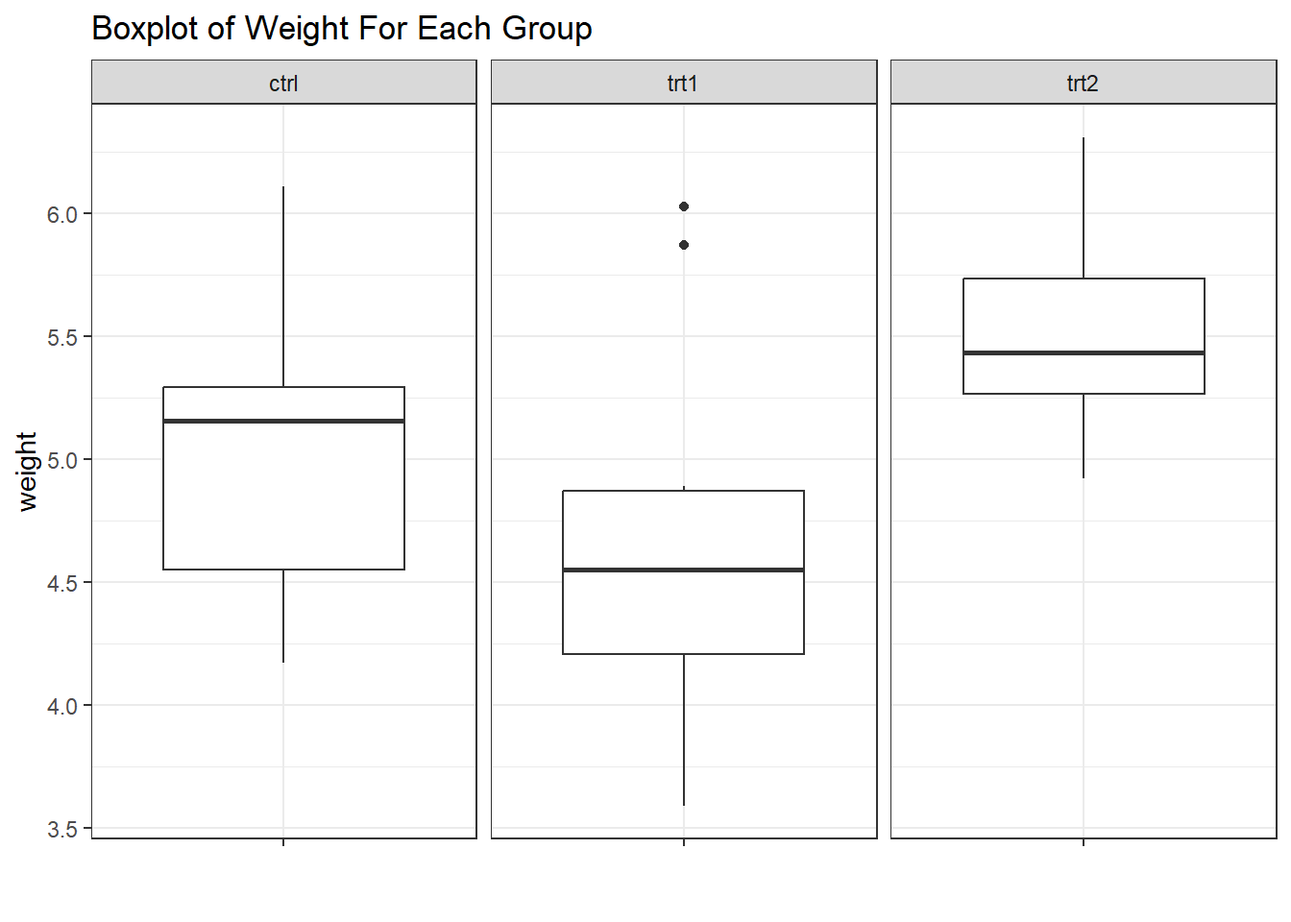
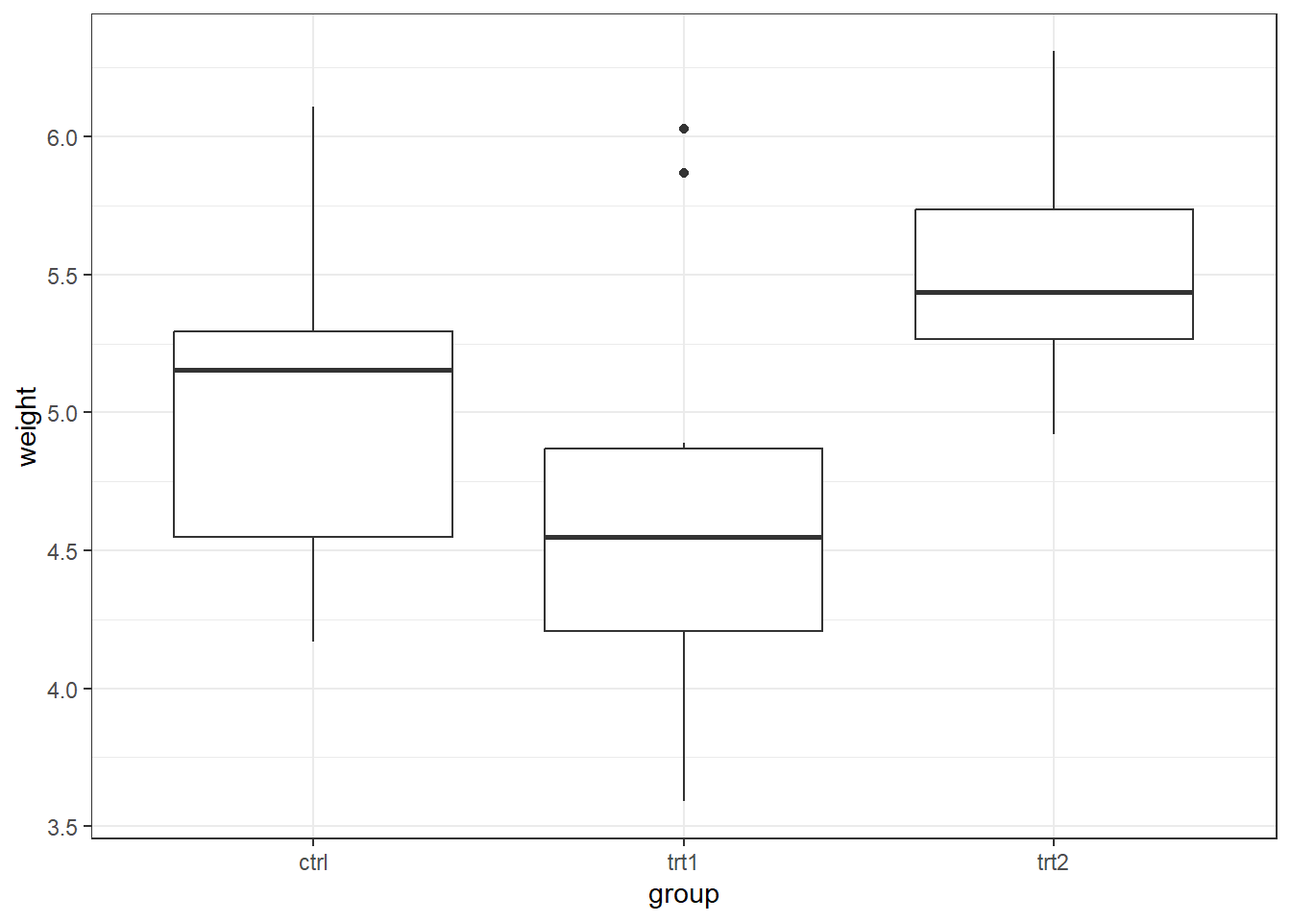
Substantial progress in Inferential Statistics.

diff --git a/docs/inferential_stats.html b/docs/inferential_stats.html
@@ -23,7 +23,7 @@
 <meta name="author" content="Michael Dear" />
 
 
-<meta name="date" content="2026-03-22" />
+<meta name="date" content="2026-03-23" />
 
   <meta name="viewport" content="width=device-width, initial-scale=1" />
   <meta name="apple-mobile-web-app-capable" content="yes" />
@@ -140,6 +140,7 @@
 <ul>
 <li class="chapter" data-level="4.1" data-path="inferential_stats.html"><a href="inferential_stats.html#estimation"><i class="fa fa-check"></i><b>4.1</b> Estimation</a></li>
 <li class="chapter" data-level="4.2" data-path="inferential_stats.html"><a href="inferential_stats.html#hypothesis-testing"><i class="fa fa-check"></i><b>4.2</b> Hypothesis Testing</a></li>
+<li class="chapter" data-level="4.3" data-path="inferential_stats.html"><a href="inferential_stats.html#further-reading"><i class="fa fa-check"></i><b>4.3</b> Further Reading</a></li>
 </ul></li>
 <li class="chapter" data-level="5" data-path="stat_tests.html"><a href="stat_tests.html"><i class="fa fa-check"></i><b>5</b> Statistical Tests</a>
 <ul>
@@ -150,9 +151,9 @@
 </ul></li>
 <li class="chapter" data-level="5.3" data-path="stat_tests.html"><a href="stat_tests.html#p-values-and-statistical-significance"><i class="fa fa-check"></i><b>5.3</b> p-values and Statistical Significance</a></li>
 <li class="chapter" data-level="5.4" data-path="stat_tests.html"><a href="stat_tests.html#confidence-intervals"><i class="fa fa-check"></i><b>5.4</b> Confidence Intervals</a></li>
-<li class="chapter" data-level="5.5" data-path="stat_tests.html"><a href="stat_tests.html#further-reading"><i class="fa fa-check"></i><b>5.5</b> Further Reading</a></li>
+<li class="chapter" data-level="5.5" data-path="stat_tests.html"><a href="stat_tests.html#further-reading-1"><i class="fa fa-check"></i><b>5.5</b> Further Reading</a></li>
 </ul></li>
-<li class="part"><span><b>Part 2: Your Project</b></span></li>
+<li class="part"><span><b>Your Project</b></span></li>
 <li class="chapter" data-level="6" data-path="planning-your-project-with-statistics-in-mind.html"><a href="planning-your-project-with-statistics-in-mind.html"><i class="fa fa-check"></i><b>6</b> Planning Your Project With Statistics In Mind</a>
 <ul>
 <li class="chapter" data-level="6.1" data-path="planning-your-project-with-statistics-in-mind.html"><a href="planning-your-project-with-statistics-in-mind.html#starting-at-the-end"><i class="fa fa-check"></i><b>6.1</b> Starting At the End</a></li>
@@ -202,12 +203,56 @@ To create and interpret confidence intervals<br />
 To understand p-values and statistical significance<br />
 To test hypotheses using statistical techniques</p>
 </blockquote>
-<p>We usually want to infer something about the population under study by applying statistical methods to the data collected. These inferences fall into one of two categories: estimation or hypothesis testing.</p>
+<p>By conducting a statistical analysis, we usually want to <em>infer</em> something about the population under study by applying statistical methods to the data collected. These inferences fall into two categories: estimation and hypothesis testing.</p>
 <div id="estimation" class="section level2 hasAnchor" number="4.1">
 <h2><span class="header-section-number">4.1</span> Estimation<a href="inferential_stats.html#estimation" class="anchor-section" aria-label="Anchor link to header"></a></h2>
+<p>Estimation is the process of inferring the value of a population parameter from a sample. This involves deriving point estimates and confidence intervals.</p>
+<p>As an example, imagine that a researcher records the mass in kilograms of 100 Yellowfin Bream (Acanthopagrus australis) caught along the NSW coast. The sample has a mean of 1.3kg and a standard deviation of 0.4kg.</p>
+<blockquote>
+<p><strong>Point Estimate</strong> - A single-valued statistic given as an estimate for a population parameter e.g. the mean of a sample (<span class="math inline">\(\bar{x}\)</span>) is given as the estimate for the population mean (<span class="math inline">\(\mu\)</span>)</p>
+</blockquote>
+<p>The point estimate for the Bream example would be the sample mean (1.3kg).</p>
+<blockquote>
+<p><strong>Confidence Interval (CI)</strong> - There is an n% probability that the parameter of interest is contained within a given confidence interval. Hence, for a 95% CI, there is a probability of 95% that the interval contains the parameter.</p>
+</blockquote>
+<p>A 95% CI for the mean of the Bream example would be <span class="math inline">\(1.3\pm1.96\times\frac{0.4}{\sqrt{100}} = [1.22,1.38]\)</span>, assuming that the sample is from a normally distributed population. There is a 95% probability that this interval covers the true population mean.</p>
+<blockquote>
+<p>The formula for calculating confidence intervals depends on the parameter of interest. Statistical software can calculate automatically the most common confidence intervals for a given data set.</p>
+</blockquote>
 </div>
 <div id="hypothesis-testing" class="section level2 hasAnchor" number="4.2">
 <h2><span class="header-section-number">4.2</span> Hypothesis Testing<a href="inferential_stats.html#hypothesis-testing" class="anchor-section" aria-label="Anchor link to header"></a></h2>
+<p>The boxplot below suggests there is a difference in the mean between the trt1 and trt2 groups, but how can we test this hypotheses in a quantitative way? This is the purpose of statistical tests.</p>
+<p><img src="statistics_for_science_extension_files/figure-html/unnamed-chunk-14-1.png" alt="" width="672" /></p>
+<p>The process for applying a statistical test can be summarised as:</p>
+<ol style="list-style-type: decimal">
+<li>Form a null hypothesis, <span class="math inline">\(H_0\)</span></li>
+<li>Form an alternative hypothesis, <span class="math inline">\(H_a\)</span></li>
+<li>Decide on an acceptable significance level (Type I error rate), <span class="math inline">\(\alpha\)</span>, (usually 5%, or <span class="math inline">\(\alpha = 0.05\)</span>)</li>
+<li>Apply an appropriate statistical test</li>
+<li>Use the p-value returned from the test to decide if the null hypothesis should be rejected</li>
+<li>Report your results</li>
+</ol>
+<p>Continuing with the example above,</p>
+<p><span class="math inline">\(H_0:\)</span> There is no difference in the means of trt1 and trt2.
+<span class="math inline">\(H_a:\)</span> There is a statistically significant difference in the means of trt1 and trt2</p>
+<p>The appropriate test for the difference in means for two independent groups is the <strong>independent t-test</strong>. Applying this test with a <strong>95% confidence level</strong> to the two groups gives <span class="math inline">\(p=0.009298\)</span>.</p>
+<p>The results of the test could be reported as</p>
+<p>“Applying the independent samples t-test gave a p-value below the significance level (<span class="math inline">\(\alpha = 0.05, p = 0.009298\)</span>). Hence, the null hypothesis was rejected.”</p>
+<blockquote>
+<p>Notice that the null hypothesis was rejected. It would be incorrect to state that the alternative hypothesis was accepted because at the stated significance level, there was still a 5% chance that the null hypothesis was correct.</p>
+</blockquote>
+<ul>
+<li>Effects, powers (detecting effects), and sample size</li>
+<li>Null and alternative hypotheses - aim to reject H0; example</li>
+<li>Review Type I/II errors</li>
+</ul>
+</div>
+<div id="further-reading" class="section level2 hasAnchor" number="4.3">
+<h2><span class="header-section-number">4.3</span> Further Reading<a href="inferential_stats.html#further-reading" class="anchor-section" aria-label="Anchor link to header"></a></h2>
+<p><a href="https://online.stat.psu.edu/stat200/lesson/4"><strong>Confidence Intervals, Pennsylvania State University</strong></a></p>
+<p><a href="https://stats.libretexts.org/Bookshelves/Introductory_Statistics/Introductory_Statistics_(Shafer_and_Zhang)/07%3A_Estimation">Estimation, Shafer and Zhang</a></p>
+<p><a href="https://stats.libretexts.org/Bookshelves/Applied_Statistics/Learning_Statistics_with_R_-_A_tutorial_for_Psychology_Students_and_other_Beginners_(Navarro)/10%3A_Estimating_Unknown_Quantities_from_a_Sample/10.05%3A_Estimating_a_Confidence_Interval"><strong>Estimating a Confidence Interval, Navarro, D</strong></a></p>
 
 </div>
 </div>

diff --git a/docs/stat_tests.html b/docs/stat_tests.html
@@ -23,7 +23,7 @@
 <meta name="author" content="Michael Dear" />
 
 
-<meta name="date" content="2026-03-22" />
+<meta name="date" content="2026-03-23" />
 
   <meta name="viewport" content="width=device-width, initial-scale=1" />
   <meta name="apple-mobile-web-app-capable" content="yes" />
@@ -140,6 +140,7 @@
 <ul>
 <li class="chapter" data-level="4.1" data-path="inferential_stats.html"><a href="inferential_stats.html#estimation"><i class="fa fa-check"></i><b>4.1</b> Estimation</a></li>
 <li class="chapter" data-level="4.2" data-path="inferential_stats.html"><a href="inferential_stats.html#hypothesis-testing"><i class="fa fa-check"></i><b>4.2</b> Hypothesis Testing</a></li>
+<li class="chapter" data-level="4.3" data-path="inferential_stats.html"><a href="inferential_stats.html#further-reading"><i class="fa fa-check"></i><b>4.3</b> Further Reading</a></li>
 </ul></li>
 <li class="chapter" data-level="5" data-path="stat_tests.html"><a href="stat_tests.html"><i class="fa fa-check"></i><b>5</b> Statistical Tests</a>
 <ul>
@@ -150,9 +151,9 @@
 </ul></li>
 <li class="chapter" data-level="5.3" data-path="stat_tests.html"><a href="stat_tests.html#p-values-and-statistical-significance"><i class="fa fa-check"></i><b>5.3</b> p-values and Statistical Significance</a></li>
 <li class="chapter" data-level="5.4" data-path="stat_tests.html"><a href="stat_tests.html#confidence-intervals"><i class="fa fa-check"></i><b>5.4</b> Confidence Intervals</a></li>
-<li class="chapter" data-level="5.5" data-path="stat_tests.html"><a href="stat_tests.html#further-reading"><i class="fa fa-check"></i><b>5.5</b> Further Reading</a></li>
+<li class="chapter" data-level="5.5" data-path="stat_tests.html"><a href="stat_tests.html#further-reading-1"><i class="fa fa-check"></i><b>5.5</b> Further Reading</a></li>
 </ul></li>
-<li class="part"><span><b>Part 2: Your Project</b></span></li>
+<li class="part"><span><b>Your Project</b></span></li>
 <li class="chapter" data-level="6" data-path="planning-your-project-with-statistics-in-mind.html"><a href="planning-your-project-with-statistics-in-mind.html"><i class="fa fa-check"></i><b>6</b> Planning Your Project With Statistics In Mind</a>
 <ul>
 <li class="chapter" data-level="6.1" data-path="planning-your-project-with-statistics-in-mind.html"><a href="planning-your-project-with-statistics-in-mind.html#starting-at-the-end"><i class="fa fa-check"></i><b>6.1</b> Starting At the End</a></li>
@@ -289,8 +290,8 @@ To select, apply, and interpret common statistical test for hypothesis testing</
 <div id="confidence-intervals" class="section level2 hasAnchor" number="5.4">
 <h2><span class="header-section-number">5.4</span> Confidence Intervals<a href="stat_tests.html#confidence-intervals" class="anchor-section" aria-label="Anchor link to header"></a></h2>
 </div>
-<div id="further-reading" class="section level2 hasAnchor" number="5.5">
-<h2><span class="header-section-number">5.5</span> Further Reading<a href="stat_tests.html#further-reading" class="anchor-section" aria-label="Anchor link to header"></a></h2>
+<div id="further-reading-1" class="section level2 hasAnchor" number="5.5">
+<h2><span class="header-section-number">5.5</span> Further Reading<a href="stat_tests.html#further-reading-1" class="anchor-section" aria-label="Anchor link to header"></a></h2>
 <p><a href="https://www.statskingdom.com/index.html"><strong>Statistics Kingdom</strong></a>: Perform statistical tests online. The front page includes an extensive summary of statistical tests, their use, requirements, and assumptions. There is also a handy <a href="https://www.statskingdom.com/statistical-decision-tree.html">Statistical Test Finder</a> that will help you select an appropriate test for your purpose.</p>
 <p><a href="https://pmc.ncbi.nlm.nih.gov/articles/PMC8327789/"><strong>An Introduction to Statistics: Choosing the Correct Statistical Test</strong></a>, Ranganathan, P</p>
 

diff --git a/docs/index.html b/docs/index.html
@@ -23,7 +23,7 @@
 <meta name="author" content="Michael Dear" />
 
 
-<meta name="date" content="2026-03-22" />
+<meta name="date" content="2026-03-23" />
 
   <meta name="viewport" content="width=device-width, initial-scale=1" />
   <meta name="apple-mobile-web-app-capable" content="yes" />
@@ -140,6 +140,7 @@
 <ul>
 <li class="chapter" data-level="4.1" data-path="inferential_stats.html"><a href="inferential_stats.html#estimation"><i class="fa fa-check"></i><b>4.1</b> Estimation</a></li>
 <li class="chapter" data-level="4.2" data-path="inferential_stats.html"><a href="inferential_stats.html#hypothesis-testing"><i class="fa fa-check"></i><b>4.2</b> Hypothesis Testing</a></li>
+<li class="chapter" data-level="4.3" data-path="inferential_stats.html"><a href="inferential_stats.html#further-reading"><i class="fa fa-check"></i><b>4.3</b> Further Reading</a></li>
 </ul></li>
 <li class="chapter" data-level="5" data-path="stat_tests.html"><a href="stat_tests.html"><i class="fa fa-check"></i><b>5</b> Statistical Tests</a>
 <ul>
@@ -150,9 +151,9 @@
 </ul></li>
 <li class="chapter" data-level="5.3" data-path="stat_tests.html"><a href="stat_tests.html#p-values-and-statistical-significance"><i class="fa fa-check"></i><b>5.3</b> p-values and Statistical Significance</a></li>
 <li class="chapter" data-level="5.4" data-path="stat_tests.html"><a href="stat_tests.html#confidence-intervals"><i class="fa fa-check"></i><b>5.4</b> Confidence Intervals</a></li>
-<li class="chapter" data-level="5.5" data-path="stat_tests.html"><a href="stat_tests.html#further-reading"><i class="fa fa-check"></i><b>5.5</b> Further Reading</a></li>
+<li class="chapter" data-level="5.5" data-path="stat_tests.html"><a href="stat_tests.html#further-reading-1"><i class="fa fa-check"></i><b>5.5</b> Further Reading</a></li>
 </ul></li>
-<li class="part"><span><b>Part 2: Your Project</b></span></li>
+<li class="part"><span><b>Your Project</b></span></li>
 <li class="chapter" data-level="6" data-path="planning-your-project-with-statistics-in-mind.html"><a href="planning-your-project-with-statistics-in-mind.html"><i class="fa fa-check"></i><b>6</b> Planning Your Project With Statistics In Mind</a>
 <ul>
 <li class="chapter" data-level="6.1" data-path="planning-your-project-with-statistics-in-mind.html"><a href="planning-your-project-with-statistics-in-mind.html#starting-at-the-end"><i class="fa fa-check"></i><b>6.1</b> Starting At the End</a></li>
@@ -196,7 +197,7 @@
 <div id="header">
 <h1 class="title">Statistics For Science Extension</h1>
 <p class="author"><em>Michael Dear</em></p>
-<p class="date"><em>2026-03-22</em></p>
+<p class="date"><em>2026-03-23</em></p>
 </div>
 <div id="introduction" class="section level1 hasAnchor" number="1">
 <h1><span class="header-section-number">Chapter 1</span> Introduction<a href="index.html#introduction" class="anchor-section" aria-label="Anchor link to header"></a></h1>

diff --git a/docs/404.html b/docs/404.html
@@ -23,7 +23,7 @@
 <meta name="author" content="Michael Dear" />
 
 
-<meta name="date" content="2026-03-22" />
+<meta name="date" content="2026-03-23" />
 
   <meta name="viewport" content="width=device-width, initial-scale=1" />
   <meta name="apple-mobile-web-app-capable" content="yes" />
@@ -140,6 +140,7 @@
 <ul>
 <li class="chapter" data-level="4.1" data-path="inferential_stats.html"><a href="inferential_stats.html#estimation"><i class="fa fa-check"></i><b>4.1</b> Estimation</a></li>
 <li class="chapter" data-level="4.2" data-path="inferential_stats.html"><a href="inferential_stats.html#hypothesis-testing"><i class="fa fa-check"></i><b>4.2</b> Hypothesis Testing</a></li>
+<li class="chapter" data-level="4.3" data-path="inferential_stats.html"><a href="inferential_stats.html#further-reading"><i class="fa fa-check"></i><b>4.3</b> Further Reading</a></li>
 </ul></li>
 <li class="chapter" data-level="5" data-path="stat_tests.html"><a href="stat_tests.html"><i class="fa fa-check"></i><b>5</b> Statistical Tests</a>
 <ul>
@@ -150,9 +151,9 @@
 </ul></li>
 <li class="chapter" data-level="5.3" data-path="stat_tests.html"><a href="stat_tests.html#p-values-and-statistical-significance"><i class="fa fa-check"></i><b>5.3</b> p-values and Statistical Significance</a></li>
 <li class="chapter" data-level="5.4" data-path="stat_tests.html"><a href="stat_tests.html#confidence-intervals"><i class="fa fa-check"></i><b>5.4</b> Confidence Intervals</a></li>
-<li class="chapter" data-level="5.5" data-path="stat_tests.html"><a href="stat_tests.html#further-reading"><i class="fa fa-check"></i><b>5.5</b> Further Reading</a></li>
+<li class="chapter" data-level="5.5" data-path="stat_tests.html"><a href="stat_tests.html#further-reading-1"><i class="fa fa-check"></i><b>5.5</b> Further Reading</a></li>
 </ul></li>
-<li class="part"><span><b>Part 2: Your Project</b></span></li>
+<li class="part"><span><b>Your Project</b></span></li>
 <li class="chapter" data-level="6" data-path="planning-your-project-with-statistics-in-mind.html"><a href="planning-your-project-with-statistics-in-mind.html"><i class="fa fa-check"></i><b>6</b> Planning Your Project With Statistics In Mind</a>
 <ul>
 <li class="chapter" data-level="6.1" data-path="planning-your-project-with-statistics-in-mind.html"><a href="planning-your-project-with-statistics-in-mind.html#starting-at-the-end"><i class="fa fa-check"></i><b>6.1</b> Starting At the End</a></li>

diff --git a/docs/bibliography.html b/docs/bibliography.html
@@ -23,7 +23,7 @@
 <meta name="author" content="Michael Dear" />
 
 
-<meta name="date" content="2026-03-22" />
+<meta name="date" content="2026-03-23" />
 
   <meta name="viewport" content="width=device-width, initial-scale=1" />
   <meta name="apple-mobile-web-app-capable" content="yes" />
@@ -140,6 +140,7 @@
 <ul>
 <li class="chapter" data-level="4.1" data-path="inferential_stats.html"><a href="inferential_stats.html#estimation"><i class="fa fa-check"></i><b>4.1</b> Estimation</a></li>
 <li class="chapter" data-level="4.2" data-path="inferential_stats.html"><a href="inferential_stats.html#hypothesis-testing"><i class="fa fa-check"></i><b>4.2</b> Hypothesis Testing</a></li>
+<li class="chapter" data-level="4.3" data-path="inferential_stats.html"><a href="inferential_stats.html#further-reading"><i class="fa fa-check"></i><b>4.3</b> Further Reading</a></li>
 </ul></li>
 <li class="chapter" data-level="5" data-path="stat_tests.html"><a href="stat_tests.html"><i class="fa fa-check"></i><b>5</b> Statistical Tests</a>
 <ul>
@@ -150,9 +151,9 @@
 </ul></li>
 <li class="chapter" data-level="5.3" data-path="stat_tests.html"><a href="stat_tests.html#p-values-and-statistical-significance"><i class="fa fa-check"></i><b>5.3</b> p-values and Statistical Significance</a></li>
 <li class="chapter" data-level="5.4" data-path="stat_tests.html"><a href="stat_tests.html#confidence-intervals"><i class="fa fa-check"></i><b>5.4</b> Confidence Intervals</a></li>
-<li class="chapter" data-level="5.5" data-path="stat_tests.html"><a href="stat_tests.html#further-reading"><i class="fa fa-check"></i><b>5.5</b> Further Reading</a></li>
+<li class="chapter" data-level="5.5" data-path="stat_tests.html"><a href="stat_tests.html#further-reading-1"><i class="fa fa-check"></i><b>5.5</b> Further Reading</a></li>
 </ul></li>
-<li class="part"><span><b>Part 2: Your Project</b></span></li>
+<li class="part"><span><b>Your Project</b></span></li>
 <li class="chapter" data-level="6" data-path="planning-your-project-with-statistics-in-mind.html"><a href="planning-your-project-with-statistics-in-mind.html"><i class="fa fa-check"></i><b>6</b> Planning Your Project With Statistics In Mind</a>
 <ul>
 <li class="chapter" data-level="6.1" data-path="planning-your-project-with-statistics-in-mind.html"><a href="planning-your-project-with-statistics-in-mind.html#starting-at-the-end"><i class="fa fa-check"></i><b>6.1</b> Starting At the End</a></li>

diff --git a/docs/data_concepts.html b/docs/data_concepts.html
@@ -23,7 +23,7 @@
 <meta name="author" content="Michael Dear" />
 
 
-<meta name="date" content="2026-03-22" />
+<meta name="date" content="2026-03-23" />
 
   <meta name="viewport" content="width=device-width, initial-scale=1" />
   <meta name="apple-mobile-web-app-capable" content="yes" />
@@ -140,6 +140,7 @@
 <ul>
 <li class="chapter" data-level="4.1" data-path="inferential_stats.html"><a href="inferential_stats.html#estimation"><i class="fa fa-check"></i><b>4.1</b> Estimation</a></li>
 <li class="chapter" data-level="4.2" data-path="inferential_stats.html"><a href="inferential_stats.html#hypothesis-testing"><i class="fa fa-check"></i><b>4.2</b> Hypothesis Testing</a></li>
+<li class="chapter" data-level="4.3" data-path="inferential_stats.html"><a href="inferential_stats.html#further-reading"><i class="fa fa-check"></i><b>4.3</b> Further Reading</a></li>
 </ul></li>
 <li class="chapter" data-level="5" data-path="stat_tests.html"><a href="stat_tests.html"><i class="fa fa-check"></i><b>5</b> Statistical Tests</a>
 <ul>
@@ -150,9 +151,9 @@
 </ul></li>
 <li class="chapter" data-level="5.3" data-path="stat_tests.html"><a href="stat_tests.html#p-values-and-statistical-significance"><i class="fa fa-check"></i><b>5.3</b> p-values and Statistical Significance</a></li>
 <li class="chapter" data-level="5.4" data-path="stat_tests.html"><a href="stat_tests.html#confidence-intervals"><i class="fa fa-check"></i><b>5.4</b> Confidence Intervals</a></li>
-<li class="chapter" data-level="5.5" data-path="stat_tests.html"><a href="stat_tests.html#further-reading"><i class="fa fa-check"></i><b>5.5</b> Further Reading</a></li>
+<li class="chapter" data-level="5.5" data-path="stat_tests.html"><a href="stat_tests.html#further-reading-1"><i class="fa fa-check"></i><b>5.5</b> Further Reading</a></li>
 </ul></li>
-<li class="part"><span><b>Part 2: Your Project</b></span></li>
+<li class="part"><span><b>Your Project</b></span></li>
 <li class="chapter" data-level="6" data-path="planning-your-project-with-statistics-in-mind.html"><a href="planning-your-project-with-statistics-in-mind.html"><i class="fa fa-check"></i><b>6</b> Planning Your Project With Statistics In Mind</a>
 <ul>
 <li class="chapter" data-level="6.1" data-path="planning-your-project-with-statistics-in-mind.html"><a href="planning-your-project-with-statistics-in-mind.html#starting-at-the-end"><i class="fa fa-check"></i><b>6.1</b> Starting At the End</a></li>

diff --git a/docs/descriptive_stats.html b/docs/descriptive_stats.html
@@ -23,7 +23,7 @@
 <meta name="author" content="Michael Dear" />
 
 
-<meta name="date" content="2026-03-22" />
+<meta name="date" content="2026-03-23" />
 
   <meta name="viewport" content="width=device-width, initial-scale=1" />
   <meta name="apple-mobile-web-app-capable" content="yes" />
@@ -140,6 +140,7 @@
 <ul>
 <li class="chapter" data-level="4.1" data-path="inferential_stats.html"><a href="inferential_stats.html#estimation"><i class="fa fa-check"></i><b>4.1</b> Estimation</a></li>
 <li class="chapter" data-level="4.2" data-path="inferential_stats.html"><a href="inferential_stats.html#hypothesis-testing"><i class="fa fa-check"></i><b>4.2</b> Hypothesis Testing</a></li>
+<li class="chapter" data-level="4.3" data-path="inferential_stats.html"><a href="inferential_stats.html#further-reading"><i class="fa fa-check"></i><b>4.3</b> Further Reading</a></li>
 </ul></li>
 <li class="chapter" data-level="5" data-path="stat_tests.html"><a href="stat_tests.html"><i class="fa fa-check"></i><b>5</b> Statistical Tests</a>
 <ul>
@@ -150,9 +151,9 @@
 </ul></li>
 <li class="chapter" data-level="5.3" data-path="stat_tests.html"><a href="stat_tests.html#p-values-and-statistical-significance"><i class="fa fa-check"></i><b>5.3</b> p-values and Statistical Significance</a></li>
 <li class="chapter" data-level="5.4" data-path="stat_tests.html"><a href="stat_tests.html#confidence-intervals"><i class="fa fa-check"></i><b>5.4</b> Confidence Intervals</a></li>
-<li class="chapter" data-level="5.5" data-path="stat_tests.html"><a href="stat_tests.html#further-reading"><i class="fa fa-check"></i><b>5.5</b> Further Reading</a></li>
+<li class="chapter" data-level="5.5" data-path="stat_tests.html"><a href="stat_tests.html#further-reading-1"><i class="fa fa-check"></i><b>5.5</b> Further Reading</a></li>
 </ul></li>
-<li class="part"><span><b>Part 2: Your Project</b></span></li>
+<li class="part"><span><b>Your Project</b></span></li>
 <li class="chapter" data-level="6" data-path="planning-your-project-with-statistics-in-mind.html"><a href="planning-your-project-with-statistics-in-mind.html"><i class="fa fa-check"></i><b>6</b> Planning Your Project With Statistics In Mind</a>
 <ul>
 <li class="chapter" data-level="6.1" data-path="planning-your-project-with-statistics-in-mind.html"><a href="planning-your-project-with-statistics-in-mind.html#starting-at-the-end"><i class="fa fa-check"></i><b>6.1</b> Starting At the End</a></li>

diff --git a/docs/online-tools.html b/docs/online-tools.html
@@ -23,7 +23,7 @@
 <meta name="author" content="Michael Dear" />
 
 
-<meta name="date" content="2026-03-22" />
+<meta name="date" content="2026-03-23" />
 
   <meta name="viewport" content="width=device-width, initial-scale=1" />
   <meta name="apple-mobile-web-app-capable" content="yes" />
@@ -140,6 +140,7 @@
 <ul>
 <li class="chapter" data-level="4.1" data-path="inferential_stats.html"><a href="inferential_stats.html#estimation"><i class="fa fa-check"></i><b>4.1</b> Estimation</a></li>
 <li class="chapter" data-level="4.2" data-path="inferential_stats.html"><a href="inferential_stats.html#hypothesis-testing"><i class="fa fa-check"></i><b>4.2</b> Hypothesis Testing</a></li>
+<li class="chapter" data-level="4.3" data-path="inferential_stats.html"><a href="inferential_stats.html#further-reading"><i class="fa fa-check"></i><b>4.3</b> Further Reading</a></li>
 </ul></li>
 <li class="chapter" data-level="5" data-path="stat_tests.html"><a href="stat_tests.html"><i class="fa fa-check"></i><b>5</b> Statistical Tests</a>
 <ul>
@@ -150,9 +151,9 @@
 </ul></li>
 <li class="chapter" data-level="5.3" data-path="stat_tests.html"><a href="stat_tests.html#p-values-and-statistical-significance"><i class="fa fa-check"></i><b>5.3</b> p-values and Statistical Significance</a></li>
 <li class="chapter" data-level="5.4" data-path="stat_tests.html"><a href="stat_tests.html#confidence-intervals"><i class="fa fa-check"></i><b>5.4</b> Confidence Intervals</a></li>
-<li class="chapter" data-level="5.5" data-path="stat_tests.html"><a href="stat_tests.html#further-reading"><i class="fa fa-check"></i><b>5.5</b> Further Reading</a></li>
+<li class="chapter" data-level="5.5" data-path="stat_tests.html"><a href="stat_tests.html#further-reading-1"><i class="fa fa-check"></i><b>5.5</b> Further Reading</a></li>
 </ul></li>
-<li class="part"><span><b>Part 2: Your Project</b></span></li>
+<li class="part"><span><b>Your Project</b></span></li>
 <li class="chapter" data-level="6" data-path="planning-your-project-with-statistics-in-mind.html"><a href="planning-your-project-with-statistics-in-mind.html"><i class="fa fa-check"></i><b>6</b> Planning Your Project With Statistics In Mind</a>
 <ul>
 <li class="chapter" data-level="6.1" data-path="planning-your-project-with-statistics-in-mind.html"><a href="planning-your-project-with-statistics-in-mind.html#starting-at-the-end"><i class="fa fa-check"></i><b>6.1</b> Starting At the End</a></li>

diff --git a/docs/planning-your-project-with-statistics-in-mind.html b/docs/planning-your-project-with-statistics-in-mind.html
@@ -23,7 +23,7 @@
 <meta name="author" content="Michael Dear" />
 
 
-<meta name="date" content="2026-03-22" />
+<meta name="date" content="2026-03-23" />
 
   <meta name="viewport" content="width=device-width, initial-scale=1" />
   <meta name="apple-mobile-web-app-capable" content="yes" />
@@ -140,6 +140,7 @@
 <ul>
 <li class="chapter" data-level="4.1" data-path="inferential_stats.html"><a href="inferential_stats.html#estimation"><i class="fa fa-check"></i><b>4.1</b> Estimation</a></li>
 <li class="chapter" data-level="4.2" data-path="inferential_stats.html"><a href="inferential_stats.html#hypothesis-testing"><i class="fa fa-check"></i><b>4.2</b> Hypothesis Testing</a></li>
+<li class="chapter" data-level="4.3" data-path="inferential_stats.html"><a href="inferential_stats.html#further-reading"><i class="fa fa-check"></i><b>4.3</b> Further Reading</a></li>
 </ul></li>
 <li class="chapter" data-level="5" data-path="stat_tests.html"><a href="stat_tests.html"><i class="fa fa-check"></i><b>5</b> Statistical Tests</a>
 <ul>
@@ -150,9 +151,9 @@
 </ul></li>
 <li class="chapter" data-level="5.3" data-path="stat_tests.html"><a href="stat_tests.html#p-values-and-statistical-significance"><i class="fa fa-check"></i><b>5.3</b> p-values and Statistical Significance</a></li>
 <li class="chapter" data-level="5.4" data-path="stat_tests.html"><a href="stat_tests.html#confidence-intervals"><i class="fa fa-check"></i><b>5.4</b> Confidence Intervals</a></li>
-<li class="chapter" data-level="5.5" data-path="stat_tests.html"><a href="stat_tests.html#further-reading"><i class="fa fa-check"></i><b>5.5</b> Further Reading</a></li>
+<li class="chapter" data-level="5.5" data-path="stat_tests.html"><a href="stat_tests.html#further-reading-1"><i class="fa fa-check"></i><b>5.5</b> Further Reading</a></li>
 </ul></li>
-<li class="part"><span><b>Part 2: Your Project</b></span></li>
+<li class="part"><span><b>Your Project</b></span></li>
 <li class="chapter" data-level="6" data-path="planning-your-project-with-statistics-in-mind.html"><a href="planning-your-project-with-statistics-in-mind.html"><i class="fa fa-check"></i><b>6</b> Planning Your Project With Statistics In Mind</a>
 <ul>
 <li class="chapter" data-level="6.1" data-path="planning-your-project-with-statistics-in-mind.html"><a href="planning-your-project-with-statistics-in-mind.html#starting-at-the-end"><i class="fa fa-check"></i><b>6.1</b> Starting At the End</a></li>

diff --git a/docs/writing-scientific-reports.html b/docs/writing-scientific-reports.html
@@ -23,7 +23,7 @@
 <meta name="author" content="Michael Dear" />
 
 
-<meta name="date" content="2026-03-22" />
+<meta name="date" content="2026-03-23" />
 
   <meta name="viewport" content="width=device-width, initial-scale=1" />
   <meta name="apple-mobile-web-app-capable" content="yes" />
@@ -140,6 +140,7 @@
 <ul>
 <li class="chapter" data-level="4.1" data-path="inferential_stats.html"><a href="inferential_stats.html#estimation"><i class="fa fa-check"></i><b>4.1</b> Estimation</a></li>
 <li class="chapter" data-level="4.2" data-path="inferential_stats.html"><a href="inferential_stats.html#hypothesis-testing"><i class="fa fa-check"></i><b>4.2</b> Hypothesis Testing</a></li>
+<li class="chapter" data-level="4.3" data-path="inferential_stats.html"><a href="inferential_stats.html#further-reading"><i class="fa fa-check"></i><b>4.3</b> Further Reading</a></li>
 </ul></li>
 <li class="chapter" data-level="5" data-path="stat_tests.html"><a href="stat_tests.html"><i class="fa fa-check"></i><b>5</b> Statistical Tests</a>
 <ul>
@@ -150,9 +151,9 @@
 </ul></li>
 <li class="chapter" data-level="5.3" data-path="stat_tests.html"><a href="stat_tests.html#p-values-and-statistical-significance"><i class="fa fa-check"></i><b>5.3</b> p-values and Statistical Significance</a></li>
 <li class="chapter" data-level="5.4" data-path="stat_tests.html"><a href="stat_tests.html#confidence-intervals"><i class="fa fa-check"></i><b>5.4</b> Confidence Intervals</a></li>
-<li class="chapter" data-level="5.5" data-path="stat_tests.html"><a href="stat_tests.html#further-reading"><i class="fa fa-check"></i><b>5.5</b> Further Reading</a></li>
+<li class="chapter" data-level="5.5" data-path="stat_tests.html"><a href="stat_tests.html#further-reading-1"><i class="fa fa-check"></i><b>5.5</b> Further Reading</a></li>
 </ul></li>
-<li class="part"><span><b>Part 2: Your Project</b></span></li>
+<li class="part"><span><b>Your Project</b></span></li>
 <li class="chapter" data-level="6" data-path="planning-your-project-with-statistics-in-mind.html"><a href="planning-your-project-with-statistics-in-mind.html"><i class="fa fa-check"></i><b>6</b> Planning Your Project With Statistics In Mind</a>
 <ul>
 <li class="chapter" data-level="6.1" data-path="planning-your-project-with-statistics-in-mind.html"><a href="planning-your-project-with-statistics-in-mind.html#starting-at-the-end"><i class="fa fa-check"></i><b>6.1</b> Starting At the End</a></li>
